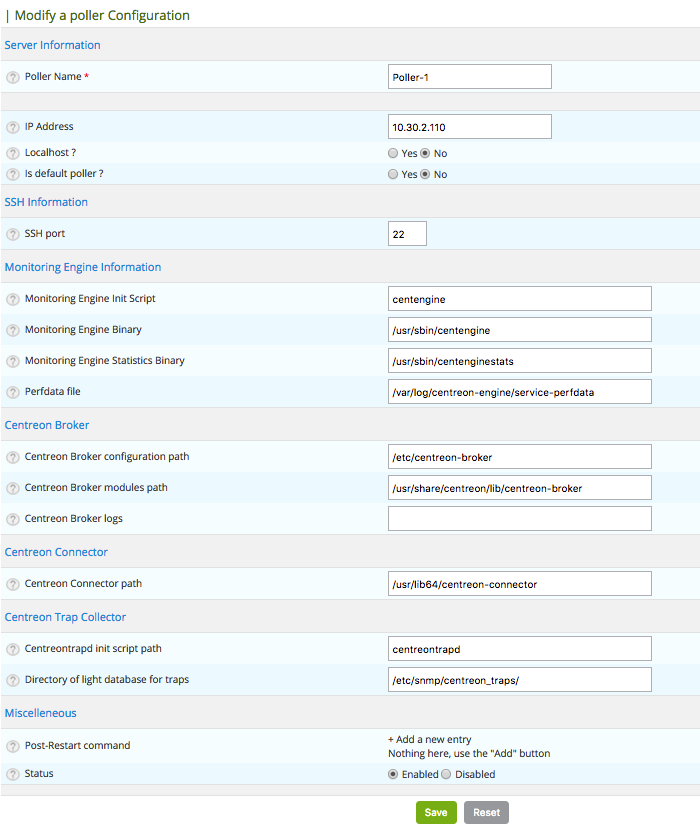
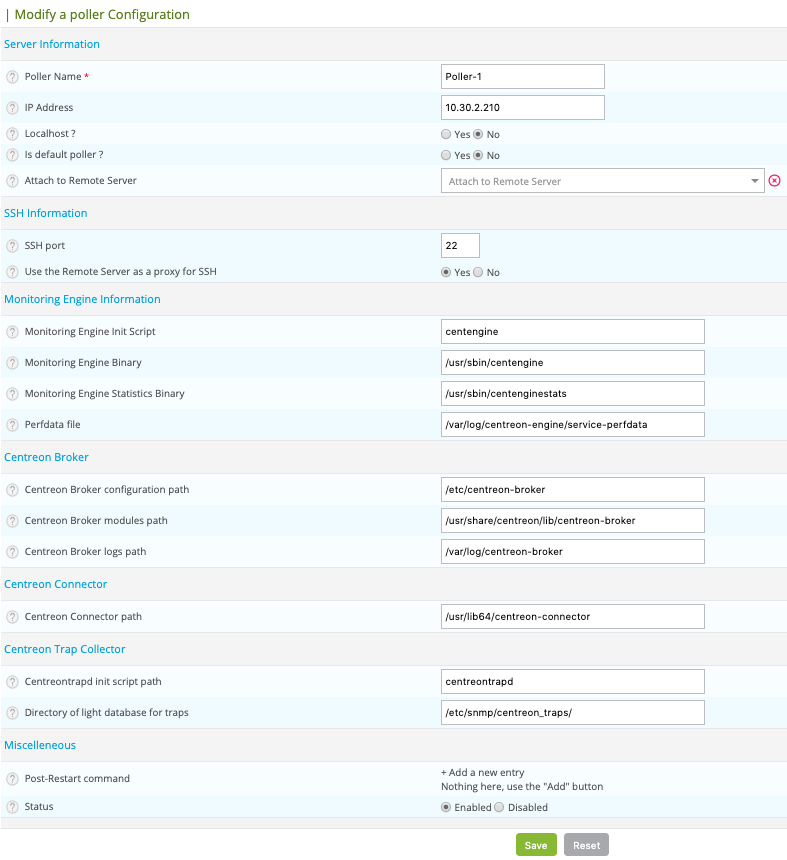
enh(doc): update documentation to explain this functionality

diff --git a/doc/en/administration_guide/poller/add_manually_a_poller.rst b/doc/en/administration_guide/poller/add_manually_a_poller.rst
@@ -5,7 +5,7 @@ Manually configuring a poller
 =============================
 
 Configuring the server
-=======================
+======================
 
 Once the installation is complete, you must integrate this remote poller into the Centreon configuration.
 
@@ -20,6 +20,13 @@ Once the installation is complete, you must integrate this remote poller into th
 .. image:: /images/user/configuration/10advanced_configuration/07addpoller.png
    :align: center
 
+.. note::
+    If your poller is attached to a Remote Server, please choose this one in the **Attach to Remote Server** list.
+
+.. note::
+    If If your poller is attached to a Remote Server, but you prefer to send externals commands and configuration
+    directly from the Central server to this poller, please disable the **Use the Remote Server as a proxy for SSH**
+    option.
 
 #. Go to the **Configuration > Pollers > Engine configuration** menu.
 #. Select your last added configuration.

diff --git a/doc/fr/administration_guide/poller/add_manually_a_poller.rst b/doc/fr/administration_guide/poller/add_manually_a_poller.rst
@@ -20,6 +20,15 @@ Une fois l'installation réalisée, il faut intégrer ce collecteur distant dans
 .. image:: /images/guide_utilisateur/configuration/10advanced_configuration/07addpoller.png
    :align: center
 
+.. note::
+    Si votre collecteur est rattaché à un Remote Server, choisissez ce dernier dans la liste **Attach to Remote
+    Server**.
+
+.. note::
+    Si votre collecteur est rattaché à un Remote Server, mais que vous souhaitez envoyer directement la configuration
+    ainsi que les fichiers de configuration directement depuis le serveur Centreon central vers ce collecteur,
+    désactivez l'option **Use the Remote Server as a proxy for SSH**.
+
 #. Rendez-vous dans le menu **Configuration > Collecteur > Configuration du moteur de collecte**
 #. Sélectionnez la configuration qui correspond au dernier poller ajouté
 #. Modifiez les paramètres suivants, puis sauvegardez :
